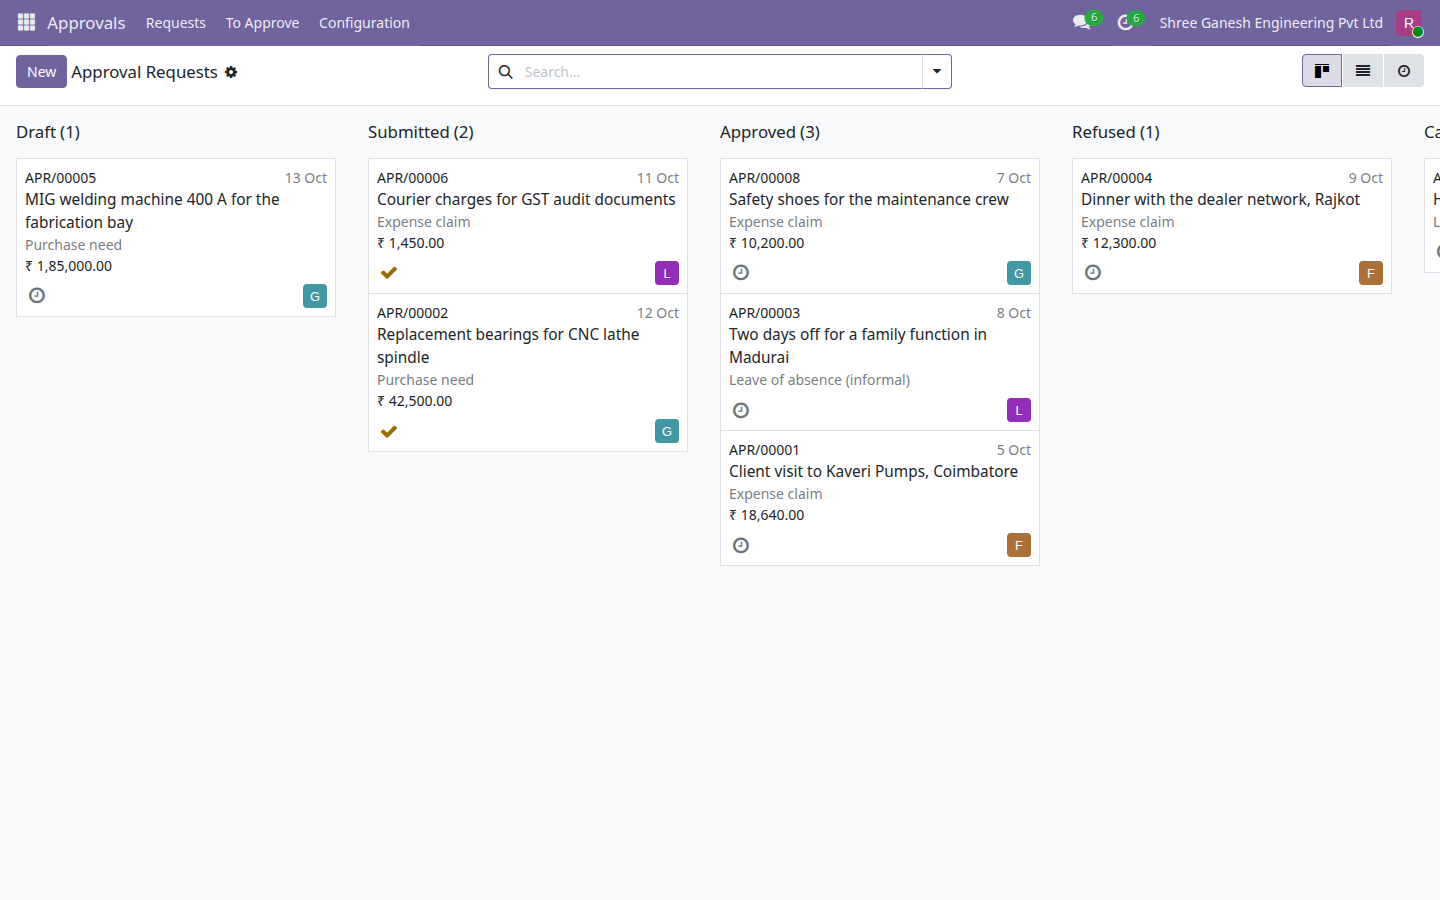
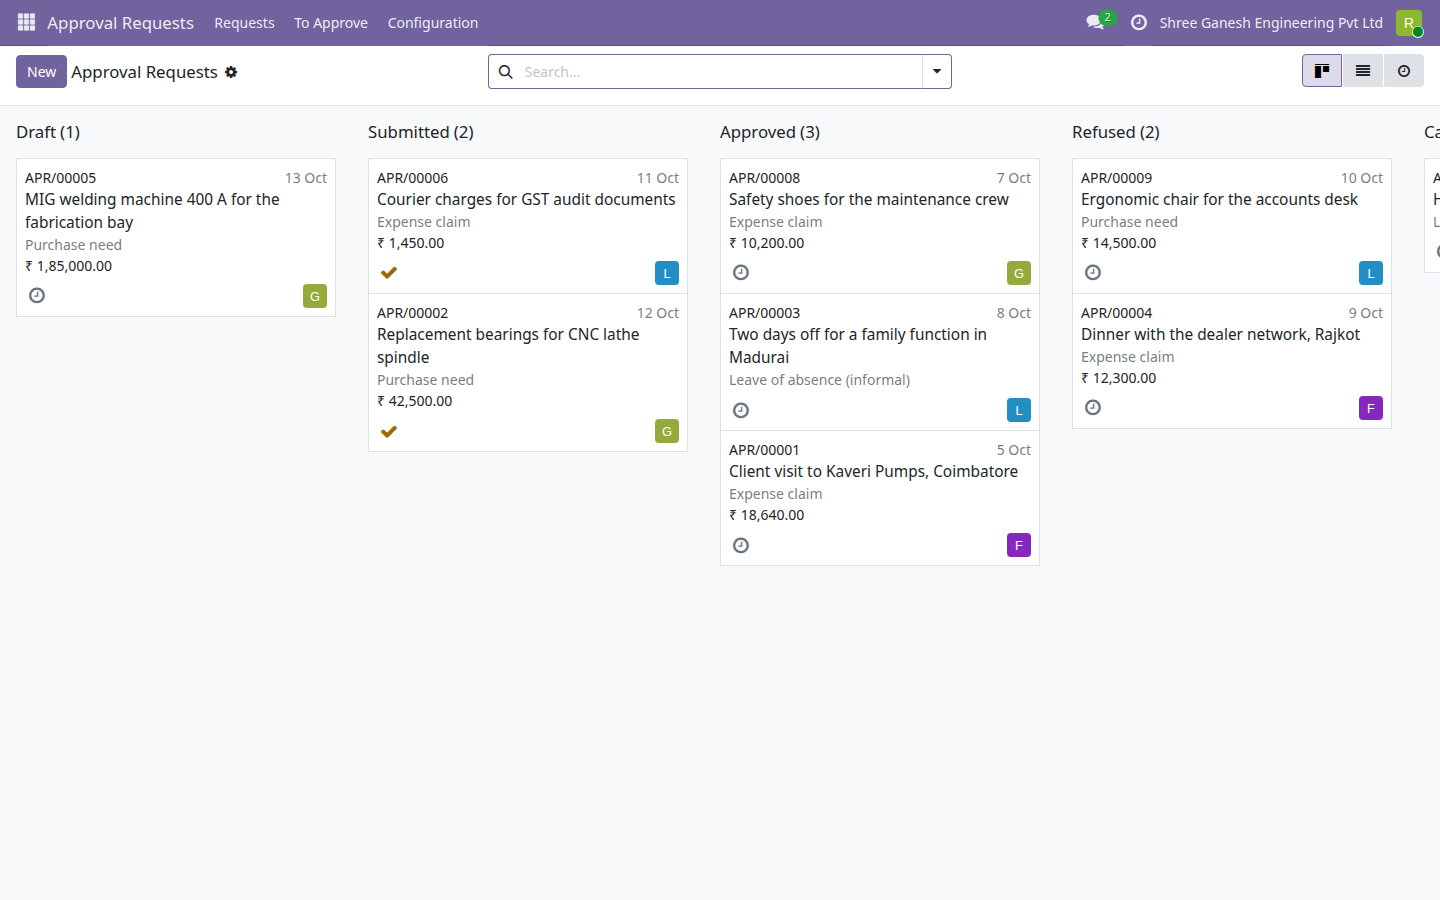
free suite: own app names and truthful sentences about the paid apps
Screenshots showed app menus named after Odoo Enterprise apps, which
the project rules forbid:
- drkds_quality_lite: "Quality" is now "Quality Checks"
- drkds_approvals_lite: "Approvals" is now "Approval Requests"
Menu paths in their README and manual follow, a test pins each name,
and their screenshots are retaken on databases holding only that
module, so nothing from another drkds module shows.

The closing sentence about the paid app named apps that do not exist
("Sales Pro") or the wrong app (Accounting Pro for recurring
invoices). It now names the paid app that extends each module and
lists only what that app does: quality, approvals, recurring
invoices, commission and HR document expiry. Quality lite gains the
sentence it was missing. Listing pages regenerated from their specs.
Quality lite 45 and approvals lite 53 tests green on clean databases.
Needs -u for the two renamed menus.

Claude-Session: https://claude.ai/code/session_01FiMLqjbKkv62TFLrLA9sYj

diff --git a/drkds_hr_document_expiry_lite/static/description/index.html b/drkds_hr_document_expiry_lite/static/description/index.html
@@ -107,7 +107,7 @@
         <a href="https://github.com/jyotinb/drkds-odoo-free/tree/19.0/drkds_ticketing_lite" style="color:#183a5c;">Support Tickets (Lite)</a>
       </p>
       <p style="font-size:15px; color:#5d6d7e;">
-        Need the full version? The drkds HR Documents app adds employee self-service upload, approval of submitted documents, reminder emails to the employee and a compliance dashboard.
+        Need the full version? The paid drkds Employee Documents and Compliance app adds checklists per job and department, portal self-service upload with HR approval, renewals and escalating reminders to HR, the employee and the manager.
       </p>
     </div>
   </div>

diff --git a/drkds_approvals_lite/static/description/index.html b/drkds_approvals_lite/static/description/index.html
@@ -124,7 +124,7 @@
         <a href="https://github.com/jyotinb/drkds-odoo-free/tree/19.0/drkds_ticketing_lite" style="color:#183a5c;">Support Tickets (Lite)</a>
       </p>
       <p style="font-size:15px; color:#5d6d7e;">
-        Need the full version? The drkds Approvals app adds multi-level and sequential approval chains, amount-based routing, delegation and approval reporting.
+        Need the full version? The paid drkds Approval Workflows app adds multi-step approval chains with amount routing, N-of-M sign-off, delegation, reminders and approval of purchase and sales orders before confirmation.
       </p>
     </div>
   </div>

diff --git a/drkds_commission_lite/static/description/index.html b/drkds_commission_lite/static/description/index.html
@@ -132,7 +132,7 @@
         <a href="https://github.com/jyotinb/drkds-odoo-free/tree/19.0/drkds_ticketing_lite" style="color:#183a5c;">Support Tickets (Lite)</a>
       </p>
       <p style="font-size:15px; color:#5d6d7e;">
-        Need the full version? The drkds Sales Pro app adds tiered schemes, team commissions and payout documents.
+        Need the full version? The paid drkds Sales Commission Plans app adds plans tiered on monthly achievement, margin and category rates, team-manager overrides, commission on payment and settlements posted as vendor bills.
       </p>
     </div>
   </div>

diff --git a/drkds_recurring_invoice_lite/static/description/index.html b/drkds_recurring_invoice_lite/static/description/index.html
@@ -107,7 +107,7 @@
         <a href="https://github.com/jyotinb/drkds-odoo-free/tree/19.0/drkds_ticketing_lite" style="color:#183a5c;">Support Tickets (Lite)</a>
       </p>
       <p style="font-size:15px; color:#5d6d7e;">
-        Need the full version? The drkds Accounting Pro app adds payment approvals, ageing analysis and cash-flow reporting.
+        Need the full version? The paid drkds Subscriptions and Recurring Billing app adds subscription plans, proration, upsell and closing credits, renewals, MRR reporting and a customer portal.
       </p>
     </div>
   </div>

diff --git a/drkds_quality_lite/static/description/index.html b/drkds_quality_lite/static/description/index.html
@@ -127,6 +127,9 @@
          · 
         <a href="https://github.com/jyotinb/drkds-odoo-free/tree/19.0/drkds_ticketing_lite" style="color:#183a5c;">Support Tickets (Lite)</a>
       </p>
+      <p style="font-size:15px; color:#5d6d7e;">
+        Need the full version? The paid drkds Quality Control app adds sampling plans, checklists and worksheets, quarantine of failed goods, quality alerts, checks on manufacturing orders and pass-rate reporting.
+      </p>
     </div>
   </div>
 </section>

diff --git a/drkds_approvals_lite/tests/test_approvals.py b/drkds_approvals_lite/tests/test_approvals.py
@@ -11,6 +11,13 @@ from .common import ApprovalsCommon
 @tagged("post_install", "-at_install")
 class TestApprovalRequest(ApprovalsCommon):
     # -- numbering -----------------------------------------------------
+
+    def test_app_menu_uses_the_module_title(self):
+        """The app menu never carries the name of an Odoo Enterprise app
+        (project rule on naming)."""
+        root = self.env.ref("drkds_approvals_lite.menu_drkds_approvals_root")
+        self.assertEqual(root.with_context(lang="en_US").name, "Approval Requests")
+
     def test_reference_is_sequential_and_unique(self):
         """Three requests take three consecutive APR/ numbers."""
         requests = self.Request.with_user(self.clerk).create([

diff --git a/drkds_quality_lite/tests/test_quality_check.py b/drkds_quality_lite/tests/test_quality_check.py
@@ -14,6 +14,13 @@ from .common import QualityCase
 class TestQualityCheck(QualityCase):
 
     # -- control points ------------------------------------------------
+
+    def test_app_menu_uses_the_module_title(self):
+        """The app menu never carries the name of an Odoo Enterprise app
+        (project rule on naming)."""
+        root = self.env.ref("drkds_quality_lite.menu_drkds_quality_root")
+        self.assertEqual(root.with_context(lang="en_US").name, "Quality Checks")
+
     def test_point_needs_a_product_or_a_category(self):
         with self.assertRaises(ValidationError):
             self.Point.create({"name": "Nothing to match"})

diff --git a/drkds_approvals_lite/__manifest__.py b/drkds_approvals_lite/__manifest__.py
@@ -40,8 +40,7 @@ draft stays with whoever is writing it. An approval manager sees everything
 and maintains the categories. The state and the decision change only
 through the buttons, in the API as well.
 
-The drkds Approvals app adds multi-level and sequential approval chains,
-amount-based routing, delegation and approval reporting.
+The paid drkds Approval Workflows app adds multi-step approval chains with amount routing, N-of-M sign-off, delegation, reminders and approval of purchase and sales orders before confirmation.
 
 Part of the drkds Indian SME suite for Odoo 19 Community.
 """,

diff --git a/drkds_approvals_lite/README.md b/drkds_approvals_lite/README.md
@@ -35,7 +35,7 @@ installs it is made an approval administrator.
    level: *User* to raise and decide, *Administrator* to see everything and
    maintain categories. Only users with this access can be picked as a
    requester or an approver.
-2. **Approvals > Configuration > Categories**: open each category and add
+2. **Approval Requests > Configuration > Categories**: open each category and add
    its approvers. A request cannot be submitted in a category with no
    approver. Tick the requirements a request must meet.
 3. Optionally edit the two mail templates under **Settings > Technical >
@@ -45,12 +45,12 @@ installs it is made an approval administrator.
 
 ## Use
 
-1. **Approvals > Requests > New**: title, category, amount, contact,
+1. **Approval Requests > Requests > New**: title, category, amount, contact,
    description. The reference is allocated on save. To ask on someone
    else's behalf, change the **Requester**.
 2. **Submit**. The category's requirements are checked and every approver
    who can decide gets a to-do activity.
-3. An approver opens **Approvals > To Approve** and clicks **Approve**, or
+3. An approver opens **Approval Requests > To Approve** and clicks **Approve**, or
    **Refuse** and types the reason. The request records who decided and when,
    the other approvers' to-dos disappear, and the requester gets the mail.
 4. A refused or cancelled request can be **Reset to Draft**, corrected and
@@ -89,7 +89,6 @@ installs it is made an approval administrator.
 One approval level only. There is no chain of approvers, no routing by
 amount, no delegation and no reporting beyond the list and Kanban.
 
-The drkds Approvals app adds multi-level and sequential approval chains,
-amount-based routing, delegation and approval reporting.
+The paid drkds Approval Workflows app adds multi-step approval chains with amount routing, N-of-M sign-off, delegation, reminders and approval of purchase and sales orders before confirmation.
 
 Part of the drkds Indian SME suite for Odoo 19 Community.

diff --git a/drkds_quality_lite/README.md b/drkds_quality_lite/README.md
@@ -43,7 +43,7 @@ Depends on `stock` only. Install from Apps; no configuration step is needed.
 
 ## Configure
 
-Quality > Points (Inventory manager rights):
+Quality Checks > Points (Inventory manager rights):
 
 1. Give the point a title and the product or product category it applies to.
 2. Pick the operation types, or leave the field empty for all of them.
@@ -60,7 +60,7 @@ inspection record of past transfers. Archive it instead.
 
 1. Confirm a receipt or delivery as usual (**Mark as To Do**, or by
    confirming the purchase or sale order). Matching checks appear under
-   Quality > Checks and on the transfer's **Quality Open** button.
+   Quality Checks > Checks and on the transfer's **Quality Open** button.
 2. Open a check. For pass/fail, press **Pass** or **Fail**. For a measure,
    enter the value and press **Record Measure**; the result follows the
    range. Add a note or attach a photo in the chatter.
@@ -107,5 +107,7 @@ for the Inventory team, and those users are not made followers of them.
   quality alerts. The module records inspections on transfers and keeps bad
   goods from being validated, nothing more.
 - No outbound calls of any kind.
+
+The paid drkds Quality Control app adds sampling plans, checklists and worksheets, quarantine of failed goods, quality alerts, checks on manufacturing orders and pass-rate reporting.
 
 Part of the drkds Indian SME suite for Odoo 19 Community.

diff --git a/drkds_quality_lite/doc/user_manual.md b/drkds_quality_lite/doc/user_manual.md
@@ -4,7 +4,7 @@
 
 A control point is a standing instruction: "every time goods of this kind
 move through this operation, inspect them like this". It is set up once by
-an Inventory administrator under **Quality > Points**.
+an Inventory administrator under **Quality Checks > Points**.
 
 | Field | Meaning |
 |---|---|
@@ -54,7 +54,7 @@ checks go with them.
 
 ## 3. Deciding a check
 
-Open the check from **Quality > Checks** (default filter: To Do) or from the
+Open the check from **Quality Checks > Checks** (default filter: To Do) or from the
 **Quality Open** button on the transfer, which shows open / total.
 
 - **Pass / Fail check**: press **Pass** or **Fail**.
@@ -102,7 +102,7 @@ record.
 
 ## 5. Finding things later
 
-**Quality > Checks** offers filters for To Do, Passed, Failed, Blocking and
+**Quality Checks > Checks** offers filters for To Do, Passed, Failed, Blocking and
 Checked by Me, a date filter on Checked On, and group-by on status, control
 point, transfer, operation type, product and inspector. The Kanban view is
 grouped by status. On transfers, the **Quality Checks Open** filter lists

diff --git a/drkds_approvals_lite/doc/user_manual.md b/drkds_approvals_lite/doc/user_manual.md
@@ -25,7 +25,7 @@ is submitted.
 
 ## 2. Set up the categories
 
-**Approvals > Configuration > Categories** lists the three categories that
+**Approval Requests > Configuration > Categories** lists the three categories that
 come installed:
 
 | Category | Must carry |
@@ -47,7 +47,7 @@ shows how many requests the category has had.
 
 ## 3. Raise a request
 
-**Approvals > Requests > New**.
+**Approval Requests > Requests > New**.
 
 - **Title** — one line saying what is asked for.
 - **Category** — picks the approvers and the rules.
@@ -76,7 +76,7 @@ Until it is decided, you or an administrator may **Cancel** it.
 
 ## 4. Decide
 
-Approvers open **Approvals > To Approve**, which lists the submitted
+Approvers open **Approval Requests > To Approve**, which lists the submitted
 requests in their categories, excluding their own. From the request form:
 
 - **Approve** — records you and the time, removes the other approvers'
